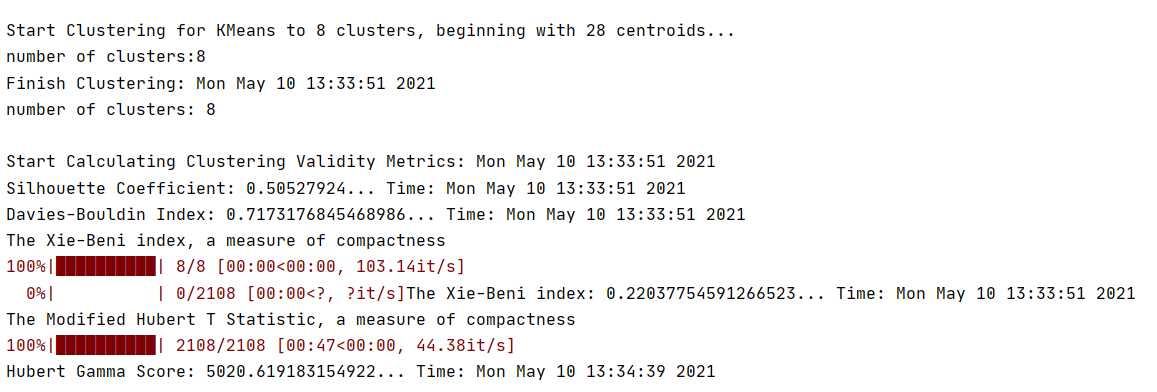
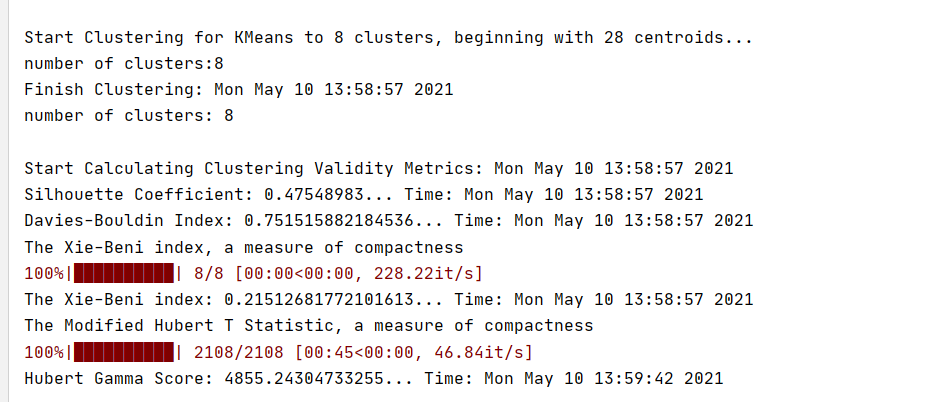
v4.2-完善输入选择执行所有聚类算法

Changed region(s): [[0.0, 0.398, 0.9968, 0.7653], [0.0, 0.7959, 0.7853, 0.9796], [0.0, 0.0612, 0.7853, 0.3061]]

diff --git a/backend/streamlines_segment_token.py b/backend/streamlines_segment_token.py
@@ -24,7 +24,7 @@ import pandas as pd
 
 
 import torch
-from torch import linalg as LA
+# from torch import linalg as LA  # not fit for torch1.2.0
 from sklearn.neighbors import NearestNeighbors  # for computing epsilon, but time consuming large
 from tqdm import tqdm
 
@@ -37,8 +37,8 @@ from mpl_toolkits.mplot3d import Axes3D
 
 np.set_printoptions(threshold=sys.maxsize)
 
-# device = 'cuda:0' if torch.cuda.is_available() else 'cpu'
-device = 'cpu'
+device = 'cuda' if torch.cuda.is_available() else 'cpu'
+# device = 'cpu'
 
 sel_feature = [
     "curvature",  # 曲率
@@ -101,7 +101,7 @@ class SegmentTokenizer(object):
         # print(self.all_point_features)
         # exit()
         # 根据特征值对流线进行分段. sel_feature[0]曲率，分段只能依靠一个特征值进行分段？
-        self.segment_all_lines(sel_feature[0], n_segment=50) #【注】此处的n_segment应该由外部主函数传入. 一般取50-100足够
+        self.segment_all_lines(sel_feature[1], n_segment=50) #【注】此处的n_segment应该由外部主函数传入. 一般取50-100足够
         # 计算流线分段的特征向量.
         self.calculate_all_segment_vectors(dim=12) #【注】此处的dim应该由外部主函数传入，暂时写为特定值. dim只能是len(sel_feature)的倍数
         # 基于流线分段的特征向量生成词汇. 用到聚类算法
@@ -112,8 +112,10 @@ class SegmentTokenizer(object):
         print("Start generate streamline word vector: " + output_time() + '\n')
         self.generate_streamlined_word_vector_expressions(v=32)
         # 对流线聚类
-        # self.generate_cluster_for_streamlines(distant_typeid=2, v=16)
-        self.exec_all_cluster_modes(v=8)
+        if self.cluster_mode == 'All':
+            self.exec_all_cluster_modes(v=8)
+        else:
+            self.generate_cluster_for_streamlines(distant_typeid=2, v=8)
         # 聚类后的流线着色 可视化
         # 如果流线很密集，需要再压缩流场，跳到tool
 
@@ -283,19 +285,19 @@ class SegmentTokenizer(object):
         x_tensor = torch.from_numpy(x).to(device)
         y_tensor = torch.from_numpy(y).to(device)
         if distant_typeid == 0:  # 欧几里得距离.
-            # distance = np.linalg.norm(x-y)
-            distance = LA.norm(x_tensor - y_tensor).cpu()
+            distance = np.linalg.norm(x-y)
+            # distance = LA.norm(x_tensor - y_tensor).cpu()
         elif distant_typeid == 1:  # 余弦距离.
             distance = 1 - np.dot(x,y)/(np.linalg.norm(x)*np.linalg.norm(y))
         elif distant_typeid == 2:  # 曼哈顿距离.
-            # distance = np.linalg.norm(x-y,ord=1)
-            distance = LA.norm(x_tensor-y_tensor, ord=1).cpu()
+            distance = np.linalg.norm(x-y,ord=1)
+            # distance = LA.norm(x_tensor-y_tensor, ord=1).cpu()
         elif distant_typeid == 3:  # 切比雪夫距离.
-            # distance = np.linalg.norm(x-y,ord=np.inf)
-            distance = LA.norm(x_tensor-y_tensor, ord=float('inf')).cpu()
+            distance = np.linalg.norm(x-y,ord=np.inf)
+            # distance = LA.norm(x_tensor-y_tensor, ord=float('inf')).cpu()
         elif distant_typeid == 4:  # 夹角余弦(Cosine).
-            # distance = np.dot(x,y)/(np.linalg.norm(x)*(np.linalg.norm(y)))
-            distance = (torch.dot(x_tensor, y_tensor)/(LA.norm(x_tensor)*LA.norm(y_tensor))).cpu()
+            distance = np.dot(x,y)/(np.linalg.norm(x)*(np.linalg.norm(y)))
+            # distance = (torch.dot(x_tensor, y_tensor)/(LA.norm(x_tensor)*LA.norm(y_tensor))).cpu()
         elif distant_typeid == 5:  # 汉明距离(Hamming distance).
             distance = np.shape(np.nonzero(x-y)[0])[0]
         elif distant_typeid == 6:  # 杰卡德相似系数(Jaccard similarity coefficient).
@@ -455,13 +457,17 @@ class SegmentTokenizer(object):
         # print("self.segment_feature_vectors.items():")
         # print(self.segment_feature_vectors.items())
 
-        print("Start PCA reduce dimension: " + output_time())
+        print("Start TSNE reduce dimension: " + output_time())
         for line, value in tqdm(self.segment_feature_vectors.items()):
             # print("line, value: " + str(line))
             # print(value)
             # segment_feature_vectors是dict, line就是key
-            XMat = np.matrix(value)
-            finalData, reconMat = pca(XMat, k)
+            # XMat = np.matrix(value)
+            # finalData, reconMat = pca(XMat, k)
+            XMat = np.array(value)
+            ts = TSNE(n_components=k, init='pca')
+            ts.fit_transform(XMat)
+            finalData = ts.embedding_
             self.segment_feature_vectors_kdim[line] = np.array(finalData)
         # # 2. 聚类
         # # 每一种聚类方法最后只需保留cluster_labels和cluster_centers
@@ -486,7 +492,7 @@ class SegmentTokenizer(object):
         #     embedded = ts.embedding_  # 各分段降维后
         #     self.segment_feature_vectors_kdim[line] = np.array(embedded)
 
-        print("Finish PCA reduce dimension and Start Clustering: " + output_time())
+        print("Finish TSNE reduce dimension and Start Clustering: " + output_time())
 
         X = np.array([pt for line, value in self.segment_feature_vectors_kdim.items() for pt in value], dtype="float64")  # 2668
         # X的长度就是总的分段数

diff --git a/test.py b/test.py
@@ -9,8 +9,8 @@ import sys
 if __name__ == '__main__':
     # vtk_name = 'tec026.0031_00_type00_streamlines_40_both_reduced_40'
     # vtk_name = 'tec026.0031_00_type00_streamlines_40_both_reduced_200'
-    # vtk_name = 'tec025.5044_00_type00_streamlines_40_both'
-    vtk_name = 'tec026.0031_00_type00_streamlines_40_both'
+    vtk_name = 'tec025.5044_00_type00_streamlines_40_both'
+    # vtk_name = 'tec026.0031_00_type00_streamlines_40_both'
     # path = "/home/gp2021-zsr/gp/"
     path = "C:/AllSoftwareDisk/PycharmProjects/GraduationProject/"
     src_streamlines_filename = path + "data/" + vtk_name + ".vtk"
@@ -24,7 +24,8 @@ if __name__ == '__main__':
     print(">>>>>>>>>>>>>>>[" + vtk_name + ".vtk]<<<<<<<<<<<<<<<")
     print("Start filtering streamlines...")
     obj = StreamlinesSegment()
-    print(">>>>>>>>>>>>>>> choose one clustering algorithm <<<<<<<<<<<<<<<")
+    print(">>>>>>>>>>>>>>> choose clustering algorithm <<<<<<<<<<<<<<<")
+    print("0. All")
     print("1. KMeans")
     print("2. KMedoids")
     print("3. DBSCAN")
@@ -33,7 +34,9 @@ if __name__ == '__main__':
     print("6. Affinity Propagation")
     print("7. CURE")
     cluster_idx = input("clustering algorithm index: ")
-    if cluster_idx == '1':
+    if cluster_idx == '0':
+        cluster_mode = 'All'
+    elif cluster_idx == '1':
         cluster_mode = "KMeans"
     elif cluster_idx == '2':
         cluster_mode = "KMedoids"
@@ -73,7 +76,8 @@ if __name__ == '__main__':
             cluster_mode == "MeanShift" or
             cluster_mode == "AP" or
             cluster_mode == "AffinityPropagation" or
-            cluster_mode == "CURE")
+            cluster_mode == "CURE" or
+            cluster_mode == "All")
 
     obj.filter_streamlines(src_streamlines_filename,
                            dest_streamlines_count_list,

diff --git a/backend/streamlines_segment_tool.py b/backend/streamlines_segment_tool.py
@@ -114,8 +114,14 @@ class StreamlinesSegment(object):
             # 还需要测不同的distant_typeid的计算结果
             dissimilarity_matrix, prototype_index = t.calculate_main_streamline_index(cnt, distant_typeid=0)
             # 得到不相似度矩阵，压缩流场
-            # labels = t.all_streamlines_cluster_labels  # Series
-            # self.draw_3d(labels=labels, prototype_index=prototype_index)
+            if cluster_mode == 'All':
+                t_cnt = 1
+                for labels in t.all_cluster_modes_streamlines_labels:
+                    self.draw_3d(labels=labels, prototype_index=prototype_index, cluster_order=t_cnt)
+                    t_cnt = t_cnt + 1
+            else:
+                labels = t.all_streamlines_cluster_labels  # Series
+                self.draw_3d(labels=labels, prototype_index=prototype_index)
 
             # series_pd1 = pd.Series(labels)
             # labels_to_draw_filename = 'labels_to_draw_'+cluster_mode+str(len(self.streamlines_lines_index_data))+'lines.csv'
@@ -134,11 +140,6 @@ class StreamlinesSegment(object):
             # df_pd4 = pd.DataFrame(self.streamlines_vertexs_data)
             # streamlines_vertexs_data_filename = 'streamlines_vertexs_data_to_draw'+cluster_mode+str(len(self.streamlines_lines_index_data))+'lines.csv'
             # df_pd4.to_csv(streamlines_vertexs_data_filename, header=False, index=False)
-
-            t_cnt = 1
-            for labels in t.all_cluster_modes_streamlines_labels:
-                self.draw_3d(labels=labels, prototype_index=prototype_index, cluster_order=t_cnt)
-                t_cnt = t_cnt+1
 
             # 基于distant_typeid = 3（切比雪夫距离）计算不相似度.
             # 基于distant_typeid = 4（夹角余弦距离）计算不相似度.

diff --git a/backend/pca.py b/backend/pca.py
@@ -48,7 +48,7 @@ def pca(XMat, k):
     avgs = np.tile(average, (m, 1))  # avgs是m行，每行一个average
     data_adjust = XMat - avgs
     covX = np.cov(data_adjust.T)   #计算协方差矩阵
-    # 避免inf和nan
+    # 如何避免inf和nan
     featValue, featVec=  np.linalg.eig(covX)  #求解协方差矩阵的特征值和特征向量
     index = np.argsort(-featValue) #按照featValue进行从大到小排序
     finalData = []
